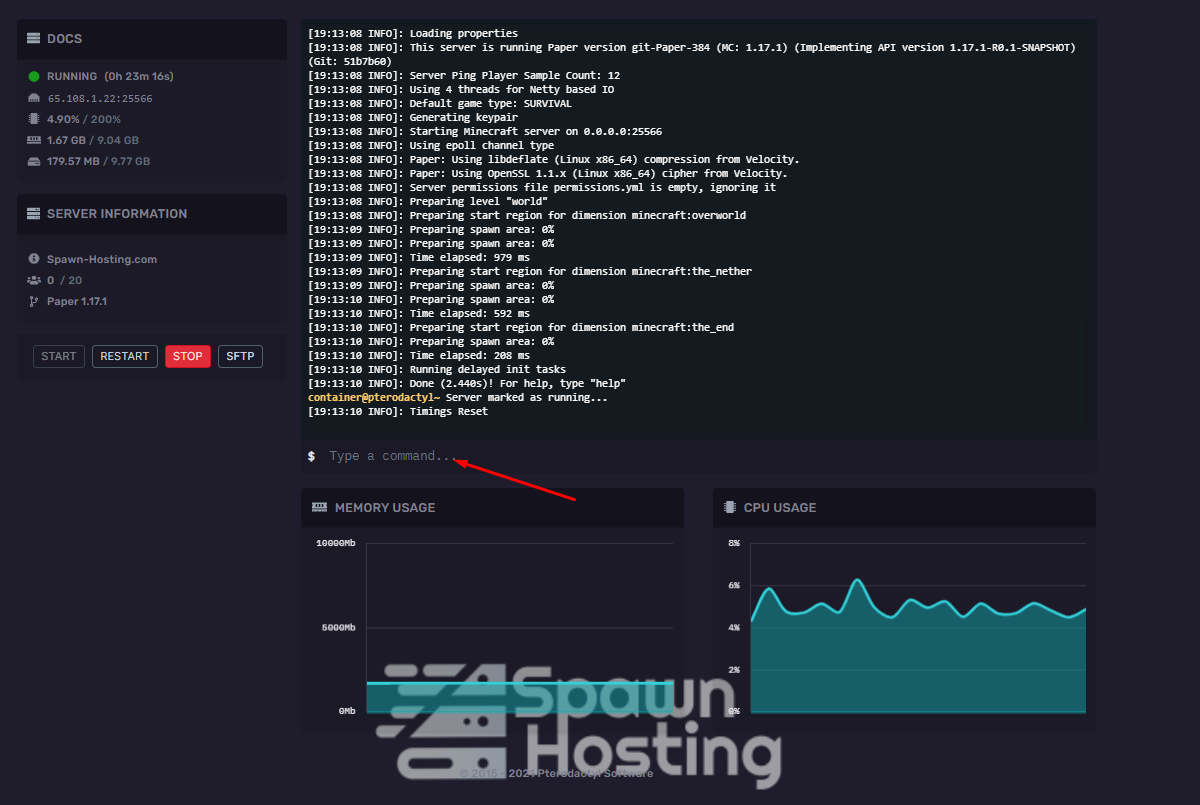
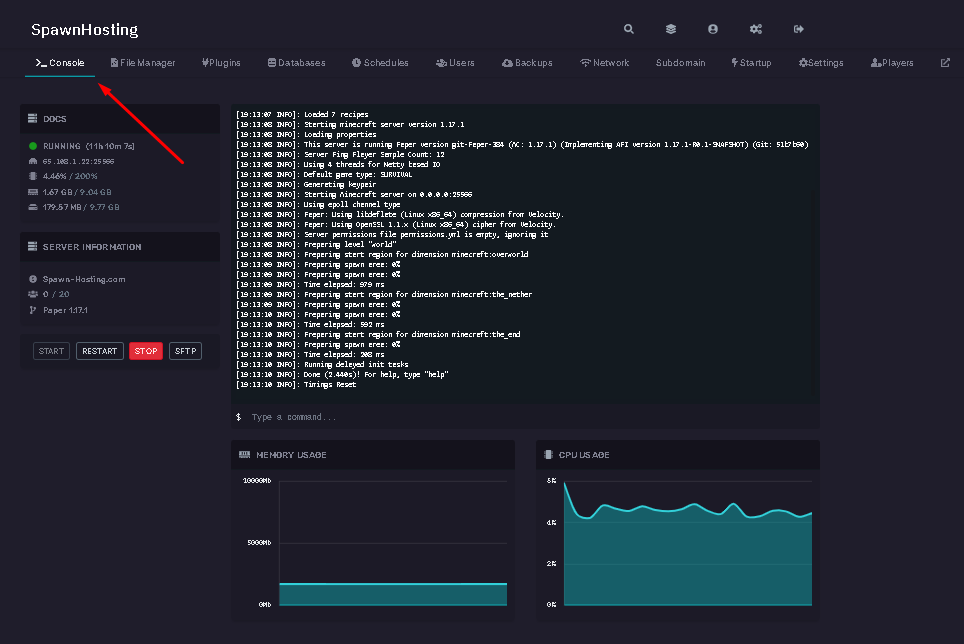
main

diff --git a/website/docs/minecraft-support/OP-Permissions.md b/website/docs/minecraft-support/OP-Permissions.md
@@ -1,17 +1,26 @@
+
 ## Assign OP rights
 
-So that you can assign OP rights to yourself or other players, you must first call up the console, provided that no other player has sufficient OP rights so that the assignment is possible in the game itself.
+:::caution
+
+The Server Should Be ``ON`` In Order To Run Commands.
+
+:::
+
+- So that you can assign OP rights to yourself or other players, you must first go the console, provided that no other player has sufficient OP rights so that the assignment is possible in the game itself.
 
 
-In order to open the console, the respective server must first be called up via the ** Dashboard **. When you arrive at the server interface, you will find the entry "Live Console" on the left in the list under the tab "INFORMATION", via which the console can be opened.
+- First open the server your want to get ``OP Rights`` via The panel. When you arrive at the server interface, you will find the entry "Console".
 
 ![](/img/op/op1.png)
 
-You should now see a dark window showing what the server's console is. An input field can be seen underneath, where all commands are passed to the console so that they can be executed there. In order to set the OP rights, the command "op player" (without "/") must be entered in the input field and then the green button "Send command" must be clicked so that the command is sent to the console .
+- You should now see a dark window showing server's console. An input field can be seen underneath, where you can enter your commands. In order to set the OP rights, the command ``op {Player-Name}`` (without "/") must be entered in the input field and then hit enter so that the command is sent to the console .
 
-! [] (https://screensaver01.zap-hosting.com/index.php/s/WRxLdk9Hr7t43EX/preview)
+![](/img/op/op2.png)
 
-After a few seconds, the command sent should appear in the console, followed by the message "Made player a server operator", which marks the process as successful. Now the respective player has all operating rights and can, for example, change the game mode.
+- After a few seconds, the command sent should appear in the console, followed by the message "Made player a server operator", which marks the process as successful. Now the respective player has all operating rights and can, for example, change the game mode.
+
+![](/img/op/op3.png)
 
 :::info
 
@@ -37,14 +46,14 @@ By installing a rights plug-in such as LuckPerms on your Bukkit / Spigot server,
 
 ### Assign rights level
 
-In order to adjust the level of a player, he must first be appointed as operator, as explained under "Assigning OP rights". So that the level can be adjusted, the file "ops.json" has to be edited using an FTP connection.
+- In order to adjust the level of a player, he/she must first be appointed as operator, as explained under "Assigning OP rights". So that the level can be adjusted, the file ``ops.json`` has to be edited in file manager.
 
-As soon as the connection to the server has been established via FTP, you have to navigate to the respective directory of the server. Now in our case at FileZilla a right-click on the file must be made and in the menu that appears, click on "View / Edit".
+- You have to navigate to the respective directory of the server. left-click on the file to open the file and edit the file".
 
-! [] (https://screensaver01.zap-hosting.com/index.php/s/6c7rCgRmRzaw6K3/preview)
+![](/img/op/op4.png)
 
-Now the value of "level" has to be set to the desired level for the desired player, whereupon the file has to be saved with ** CTRL + S **.
+- Now the value of "level" has to be set to the desired level for the desired player, whereupon the file has to be saved with ** CTRL + S OR Hit Save Content**.
 
-! [] (https://screensaver01.zap-hosting.com/index.php/s/9RsLFQqCEGbsXcM/preview)
+![](/img/op/op5.png)
 
-In order for the changes to take effect, the server must be restarted, which can be done by holding the red stop button in the server's interface.
+- In order for the changes to take effect, the server must be restarted, which can be done in the console tab of the server's interface.

diff --git a/website/docs/minecraft-support/Whitelist.md b/website/docs/minecraft-support/Whitelist.md
@@ -1,0 +1,98 @@
+The ** Minecraft Whitelist ** is a way to protect your server by only allowing selected players who are on the list to connect to the server. Because Minecraft does not offer a server password option by default like some other games.
+
+! [img] (https://screensaver01./index.php/s/MzNpHycMNAFTMjB/preview)
+
+
+
+## Activate whitelist
+
+
+
+###  Activation (Config)
+
+To activate the whitelist, the value of the command in the ** server.properties ** Config must be set to ** true **. A restart of the server is then absolutely necessary for the change to take effect.
+
+``
+white-list = true
+``
+
+
+
+###  activation (chat)
+
+Alternatively, the whitelist function can also be activated in the game or via the live console:
+
+``
+/ whitelist on (activates the whitelist function)
+/ whitelist off (deactivates the whitelist function)
+``
+
+
+
+In order to activate the whitelist function via the game, operator rights are absolutely necessary! Alternatively, this can also be done via the live console (web interface). However, it should be noted that the commands there must be executed without the ** / ** symbol.
+
+
+
+! [img] (https://screensaver01./index.php/s/TYnXZY4DfjSfNNg/preview)
+
+
+
+## Manage whitelist
+
+
+
+###  Add / remove player
+
+
+
+** Chat **
+
+The following commands can be used to add or remove players from the whitelist:
+
+``
+/ whitelist add playerName
+/ whitelist remove player name
+``
+
+
+
+** white-list.json **
+
+If the player's UUID is known, the player can also be added manually via the ** white-list.json **. You can access and edit these via an FTP connection. Instructions for connecting via FTP can be found here: [FTP file access] (gameserver_ftpaccess.md)
+
+``
+[
+  {
+    "uuid": "xxxxxxxx-xxxx-xxxx-xxxx-xxxxxxxxxxxx",
+    "name": "Player1"
+  },
+  {
+    "uuid": "xxxxxxxx-xxxx-xxxx-xxxx-xxxxxxxxxxxx",
+    "name": "Player2"
+  },
+  {
+    "uuid": "xxxxxxxx-xxxx-xxxx-xxxx-xxxxxxxxxxxx",
+    "name": "Player3"
+  }
+]
+``
+
+
+
+###  Update list
+
+If the players are added manually, the whitelist in the game has to be reloaded. In order not to have to restart the server, this can also be done using a command:
+
+``
+ / whitelist reload
+``
+
+
+
+### 🗃 View the list
+
+In order not to have to open the whitelist file via FTP every time, it is also possible to display all players who are on the whitelist using the following command: 
+
+``
+/ whitelist list
+``

diff --git a/website/docs/minecraft-support/tlauncher-support.md b/website/docs/minecraft-support/tlauncher-support.md
@@ -1,3 +1,4 @@
+
 # Offline Mode
 :::info
 
@@ -24,4 +25,4 @@ Turn off the server before editing files.
 
 ![Locale Dropdown](/img/offlinemode/ofm3.png)
 
-You can now turn on your server.
+- You can now turn on your server.
